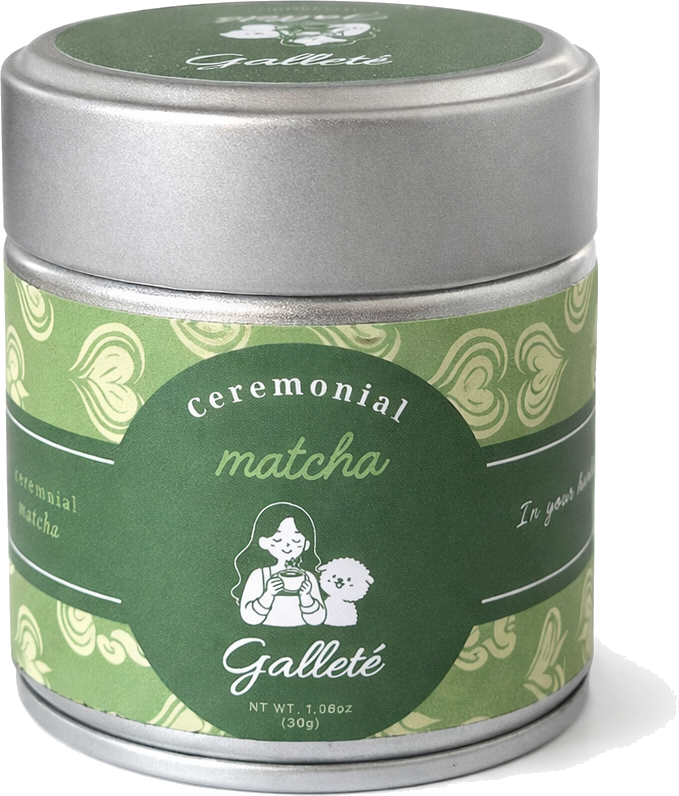
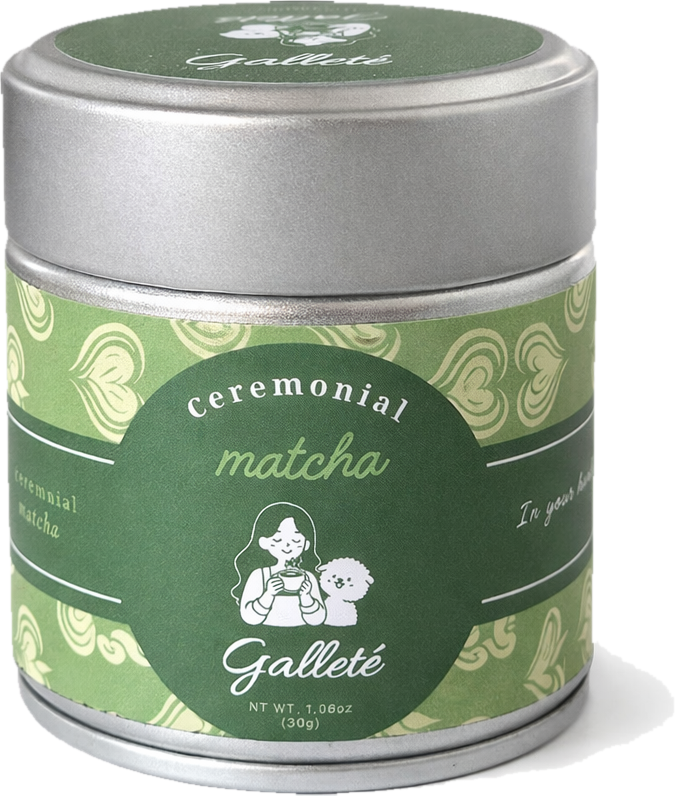
Galleté matcha: limpia borde blanco de las latas (hero) y ajusta encuadre de Valeria
- defringe latas cerrada/abierta (erosion + feather) -> sin halo blanco sobre el fondo verde
- buy-photo aspect 5/8 + object-position top -> ya no corta la cabeza, menos zoom

diff --git a/matcha.html b/matcha.html
@@ -215,8 +215,8 @@ h1,h2,h3,h4{font-family:var(--font-display);line-height:1.05;font-weight:700;col
 .bway .material-symbols-rounded{color:var(--matcha-deep);font-size:26px}
 .bway b{font-family:var(--font-display);color:var(--wine)}
 .bway span{font-size:.88rem;color:var(--ink);opacity:.75}
-.buy-photo{border-radius:28px;overflow:hidden;box-shadow:var(--shadow-lg);aspect-ratio:1/1}
-.buy-photo img{width:100%;height:100%;object-fit:cover}
+.buy-photo{border-radius:28px;overflow:hidden;box-shadow:var(--shadow-lg);aspect-ratio:5/8}
+.buy-photo img{width:100%;height:100%;object-fit:cover;object-position:center top}
 @media(max-width:820px){.buy-in{grid-template-columns:1fr}}
 
 /* footer */
